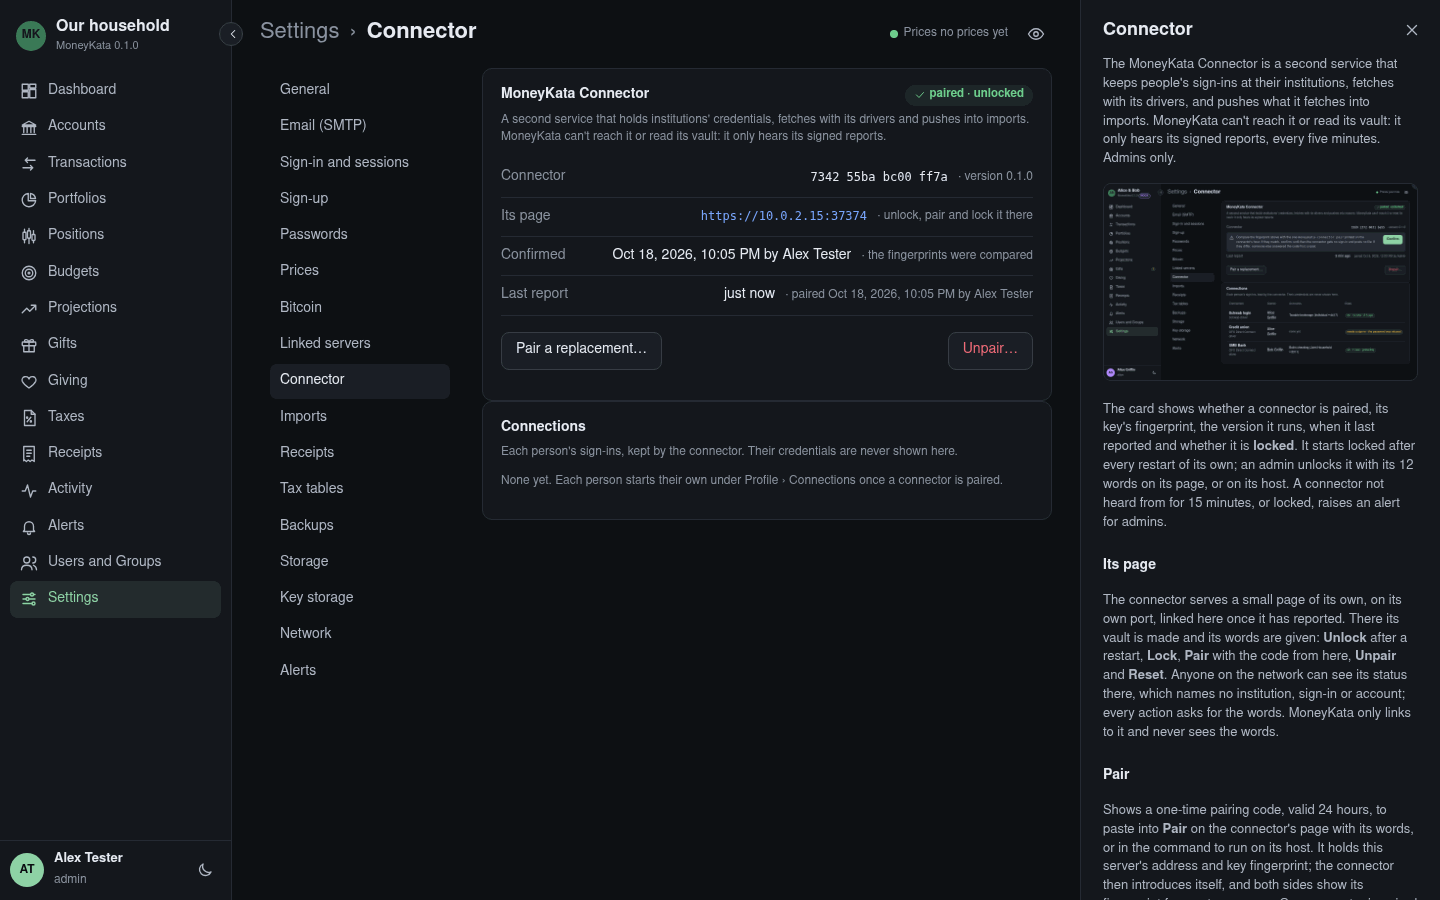
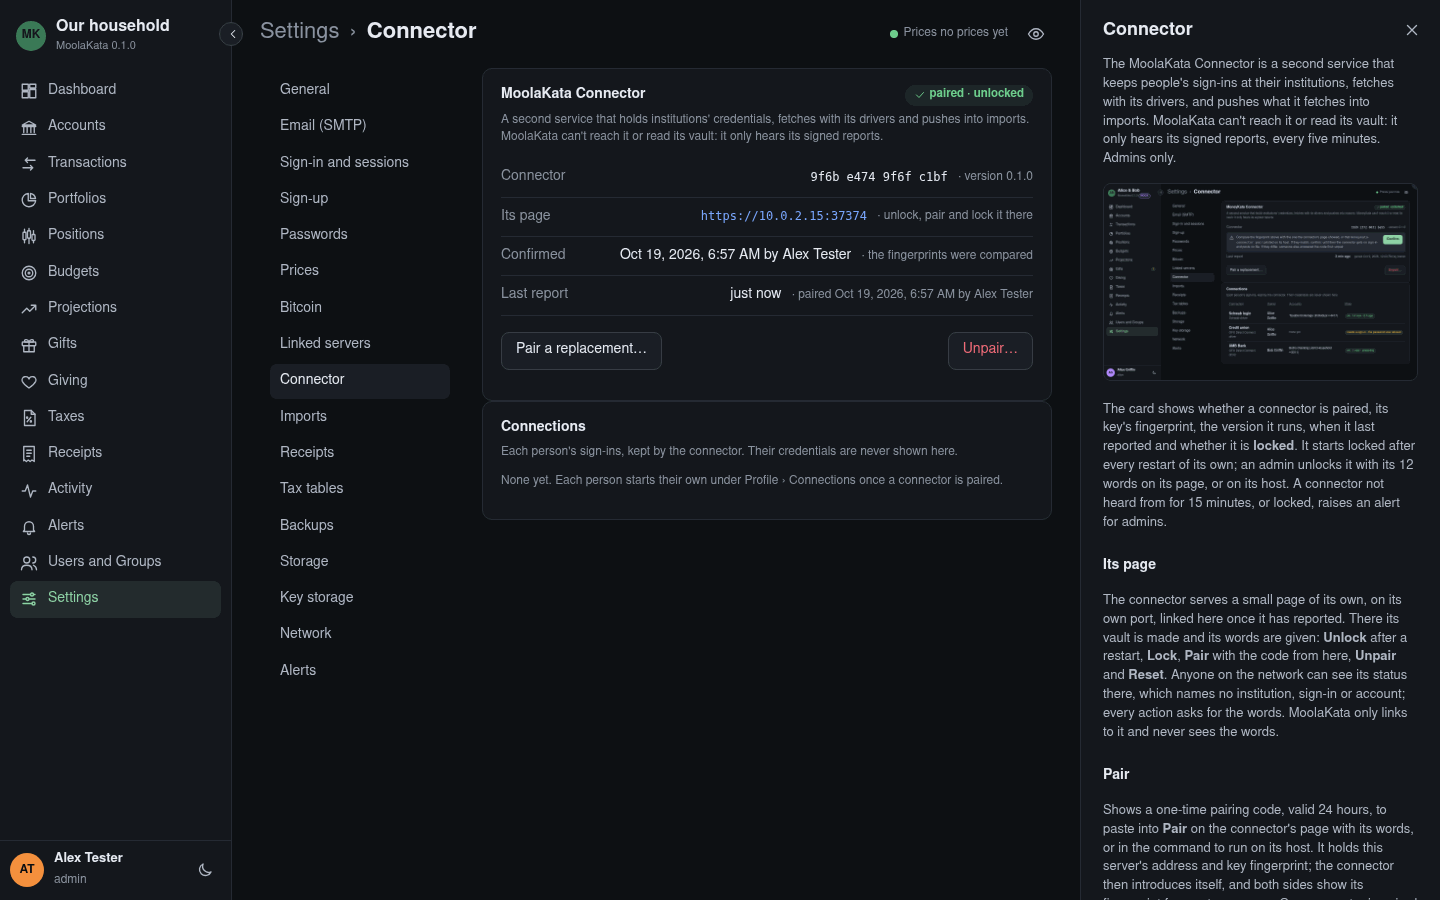
MoolaKata: DEPLOY.md run again on TrueNAS and Proxmox VE under the new names
Both labs with images built from this branch, every step as DEPLOY.md now says it:
- TrueNAS Community Edition 25.10.7: the datasets tank/moolakata, the `moolakata` and
  `moolakata-connector` apps from their YAML (Running, `permissions` Exited, the datasets
  owned 10001 and 10002), the welcome, the connector's welcome on its page and its pairing
  through it, confirmed at its next report; the server in the NAS's zone. §7 now says where
  the configuration is on TrueNAS (MOOLAKATA_CONFIG in the app's YAML).
- Proxmox VE 9.2 with a Debian 13 guest: the VM `moolakata` from §3.1's commands, §3.2–3.4
  (the compose file copied from the working tree, there being no v0.1.0 tag to fetch it from
  yet), the welcome, a reboot unlocked from the host, the connector on its page, paired and
  confirmed; the server in America/Chicago as §3.2 sets it.
- Their screenshots retaken: the datasets, Install via YAML, the apps, Settings › Connector
  with its page linked, and Proxmox's Shell and the VM's Summary.

diff --git a/docs/DEPLOY.md b/docs/DEPLOY.md
@@ -350,7 +350,7 @@ whenever you make a new copy; the yearly alert opens it.
   log of: in **System › Shell**, `sudo docker logs --tail 5 ix-moolakata-moolakata-1` shows
   the line. Its paths are the container's: `/var/lib/moolakata` is `data` (on TrueNAS, the
   `data` dataset), `/var/backups/moolakata` is `backups`, and `/etc/moolakata.toml` is the
-  configuration.
+  configuration (on TrueNAS, `MOOLAKATA_CONFIG` in the app's YAML).
 - **The page won't load**: it is `https://`, on port 37373. A browser that refuses the
   certificate outright was given an address the certificate doesn't name: add it under
   `[tls] names` and restart; the server makes a new certificate.
